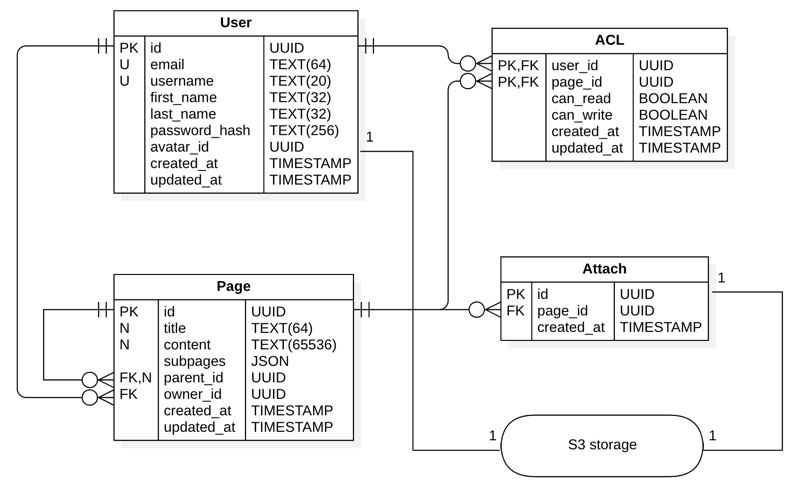
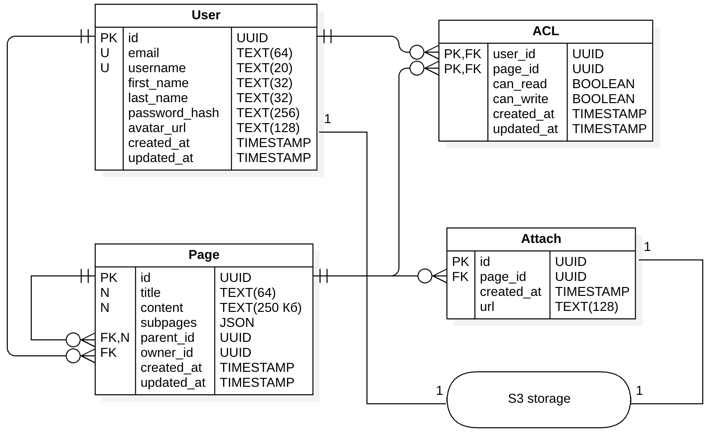
physical database scheme

diff --git a/README.md b/README.md
@@ -204,20 +204,10 @@ Notion — сервис для создания заметок и текстов
 
 ### Ключевые моменты
 
-- В качестве идентификаторов (ID) в БД было решено использовать uuid v4, что обеспечит глобальную уникальность и простоту генерации.
-
-- Все текстовые данные хранятся в БД в типе TEXT с CONSTRAINT на длину, вместо VARCHAR. Это best practice, так как VARCHAR с разной длиной - это разные типы данных, и просто так изменить ограничение не получится. В то время как TEXT с CONSTRAINT на длину - более гибкая конструкция.
-
-- В каждую таблицу добавлены поля created_at и updated_at - это best practice, так как иначе эти данные в случае необходимости будет трудно найти. Эти поля не nullable, так как при создании сущности сразу будут заполняться текущим timestamp-ом.
-
 - Содержимое страниц будет храниться в базе в виде заранее продуманного JSON, либо в виде HTML. Такой подход избавит от проблем с хранением как самого контента, так и с сохранением порядка и местоположения аттачей внутри страницы. Кроме того, это позволит сразу сохранять все примененные стили, а также разный тип контента (списки, таблицы и прочее).
-
-- В таблице ACL также было решено не вводить id, а вместо этого использовать составной первичный ключ по связке пользователь-страница.
-
-- Запись в таблице ACL будет создаваться, когда создатель разрешил изменить дефольные права доступа (по дефолту страница приватная). Изначально для проверки доступа используется поле owner_id в таблице Page.
-
-- В таблице Attach для каждого вложения хранится id, по которому по некоторой логике можно получить взаимно однозначную ссылку в S3-хранилище.
-
+- Для поля content страницы установим ограничение в 250 Кб, соотвественно в это число не входят аттачи. Такой подход, конечно, в некоторой степени ущемляет возможности русскоязычных пользователей, но с другой стороны, для них это ограничение фактически будет означать 125000 символов, что более чем достаточно. Такой подход избавит от проблем с неравномерностью шардирования.
+- Для каждого аттача установим максимальный допустимый размер в 2 Мб.
+- Для сохранения аттачей будем использовать метож двухфазного коммита: сначала будем создавать запись в таблице Attach с пустым url, затем будем загружать аттач в S3, после успешной загрузки будем проставлят поле url.
 - Было решено денормализовать схему данных. Вместо того, чтобы вводить еще одну таблицу со связями между страницами, было решено хранить данные о родительской странице и дочерних страницах в таблице Page.
 
     В поле subpages будет храниться JSON вида:
@@ -253,14 +243,14 @@ Notion — сервис для создания заметок и текстов
 
 - id: 32 байт
 - title: 64 байт
-- content: 65536 байт
+- content: 256000 байт
 - subpages: ~(100 байт * 3 дочерних страницы) --> 300 байт
 - parent_id: 32 байт
 - owner_id: 32 байт
 - created_at: 8 байт
 - updated_at: 8 байт
 
-    Итого: 680 млн страниц по 66012 байт --> 40.83 Тб
+    Итого: 680 млн страниц по 66012 байт --> 174.4 Тб
 
 #### Attach
 
@@ -339,7 +329,7 @@ Notion — сервис для создания заметок и текстов
 2. Определяем, в какой шард попадает этот хэш (например, берем остаток от деления на количество шардов)
 3. Читаем/записываем в полученный шард
 
-Такой подход обеспечивает равномерное распределение данных по шардам, что повышает отказоустойчивость. Применим шардирование для таблицы Page, так как она будет очень тяжелой, а также для таблиц Attach и ACL, так как в них будет много записей.
+Такой подход обеспечивает равномерное распределение данных по шардам, что повышает отказоустойчивость. Применим шардирование для таблицы Page, так как она будет очень тяжелой, а также для таблиц Attach и ACL, так как в них будет много записей. При выборе количества шардов будем отталкиваться от максимально возможного размера данных.
 
 Также будем использовать репликацию по схеме master-slave с двумя синхронными slave-ами для таблицы Page. Будем считать, что запрос на запись завершился успешно после того, как получили утвердительный ответ хотя бы от одного slave-а.
 
@@ -359,7 +349,7 @@ Notion — сервис для создания заметок и текстов
 
 ElasticSearch также из коробки поддерживет механизмы шардирования и репликации. Поэтому будем разбивать наш поисковый индекс на несколько шардов, которые будут расположены на разных физических узлах. Кроме того, настроим репликацию - по одной реплике на каждый шард. При этом шард и его реплика всегда будут находиться на разных узлах.
 
-Помимо отказоустойчивости и балансирвоки нагрузки, такой подход позволяет распараллелить поисковые запросы, что значительно ускорит поиск.
+Помимо отказоустойчивости и балансировки нагрузки, такой подход позволяет распараллелить поисковые запросы, что значительно ускорит поиск.
 
 ### Клиентские библиотеки/интеграции
 
